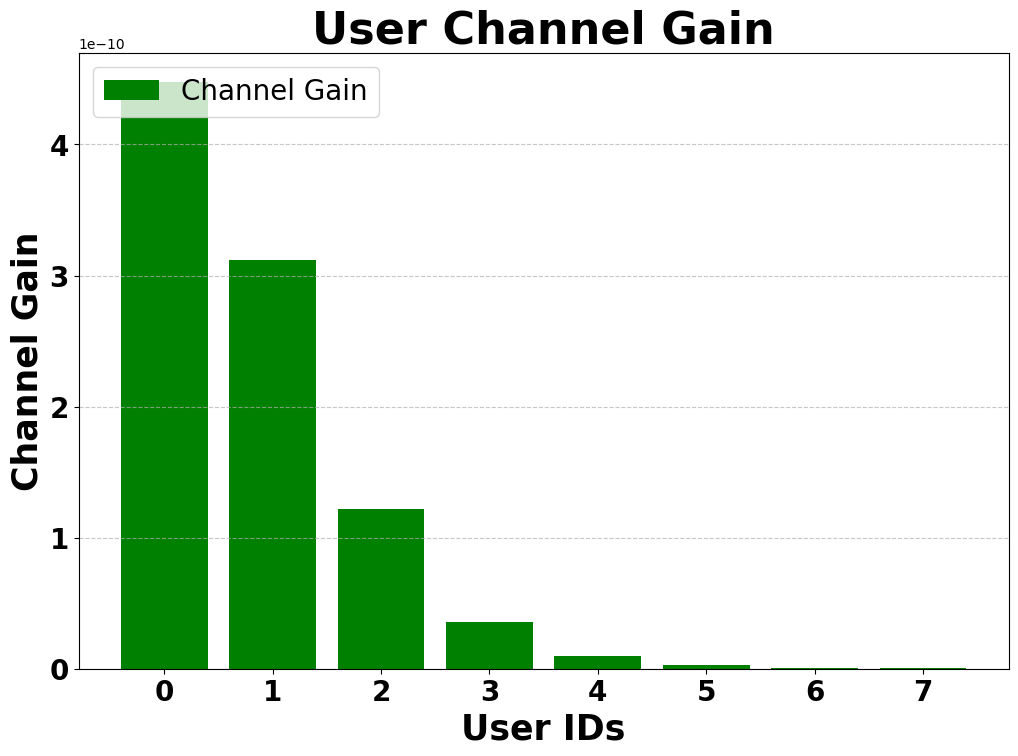
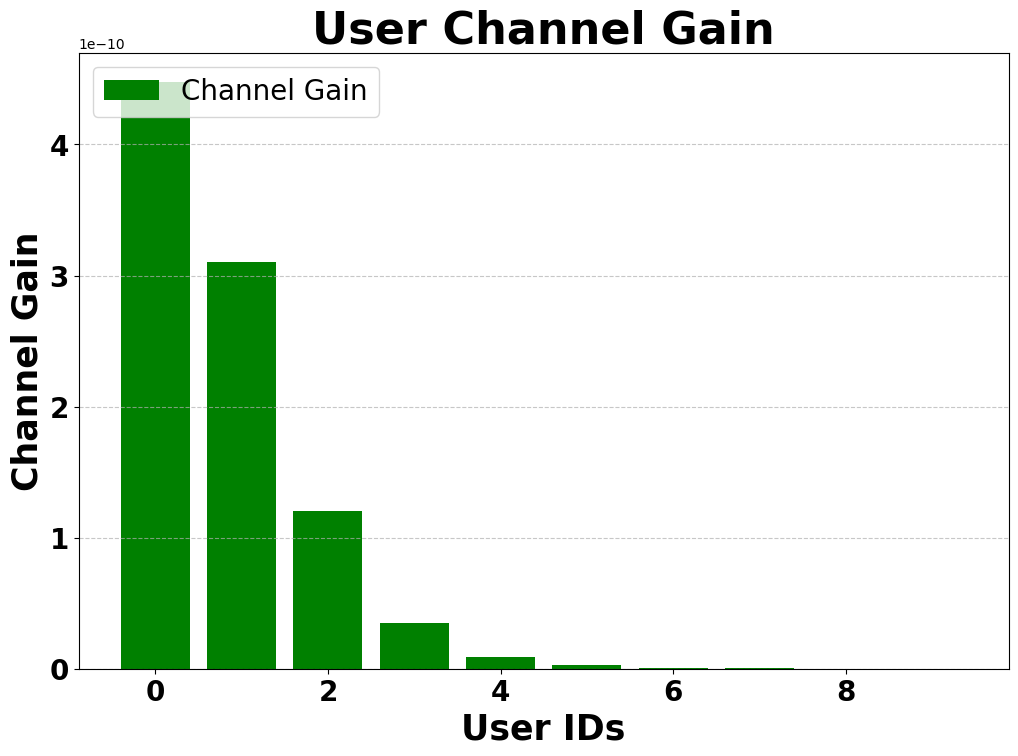
Pure Game Finalized

diff --git a/submodular_game_main.py b/submodular_game_main.py
@@ -15,7 +15,7 @@ key = random.PRNGKey(20)
 N = 1
 #U = 100
 # Generate random user number for each node
-U = random.randint(key, (N,), 8, 8)
+U = random.randint(key, (N,), 10, 10)
 NODE_RADIUS = 2
 MIN_DISTANCE_BETWEEN_NODES = 100  # Minimum distance to maintain between nodes
 UAV_HEIGHT = 100
@@ -27,7 +27,7 @@ UAV_CPU_FREQUENCY = 2 * (10**9)
 UAV_VELOCITY = 1
 MAX_ITER = 50
 DISTANCE_MIN = 10
-DISTANCE_MAX = 40
+DISTANCE_MAX = 67
 MAX_BITS = 2 * 10**6
 MIN_BITS = 3 * 10**5
 ENERGY_LEVEL = 29000
